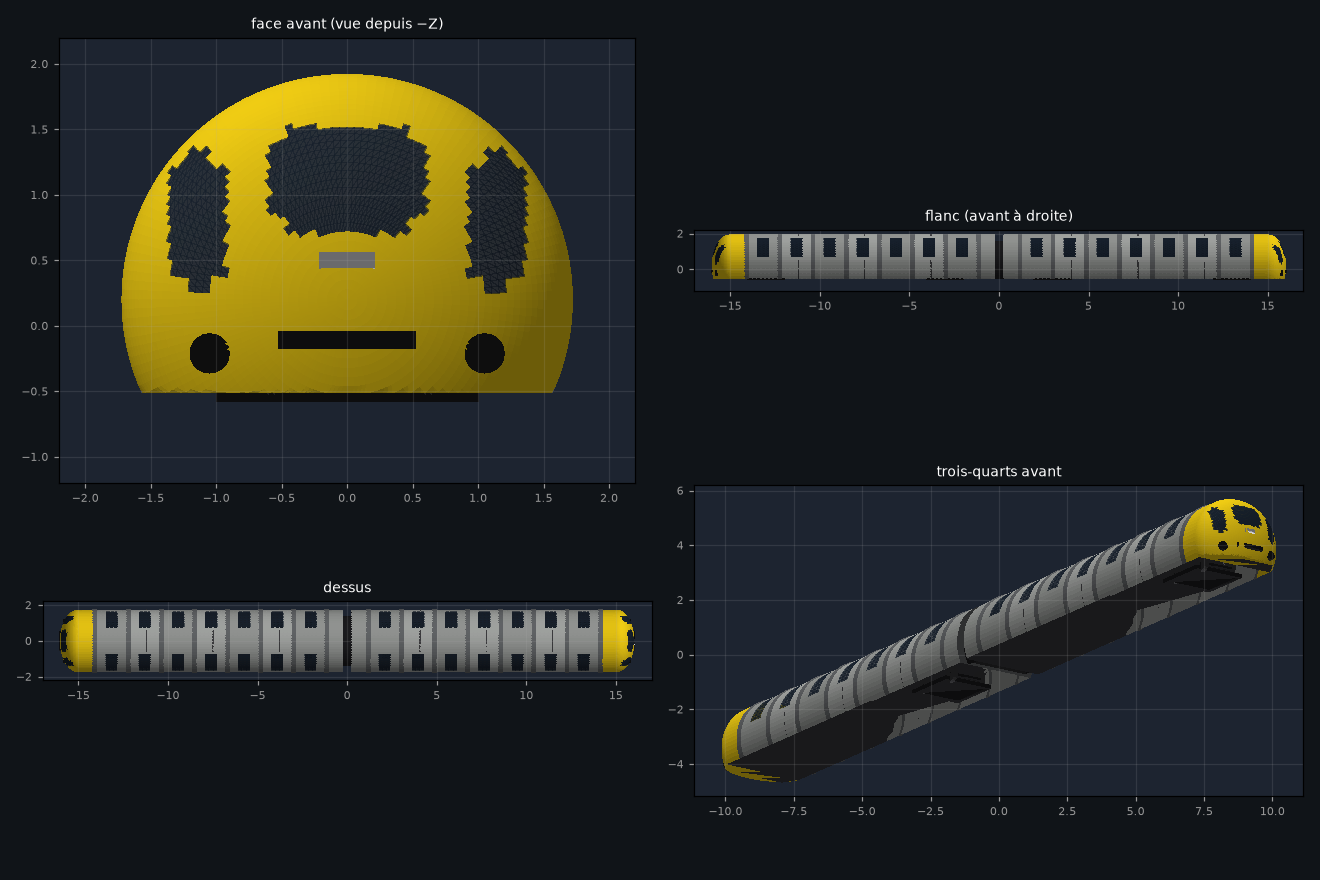
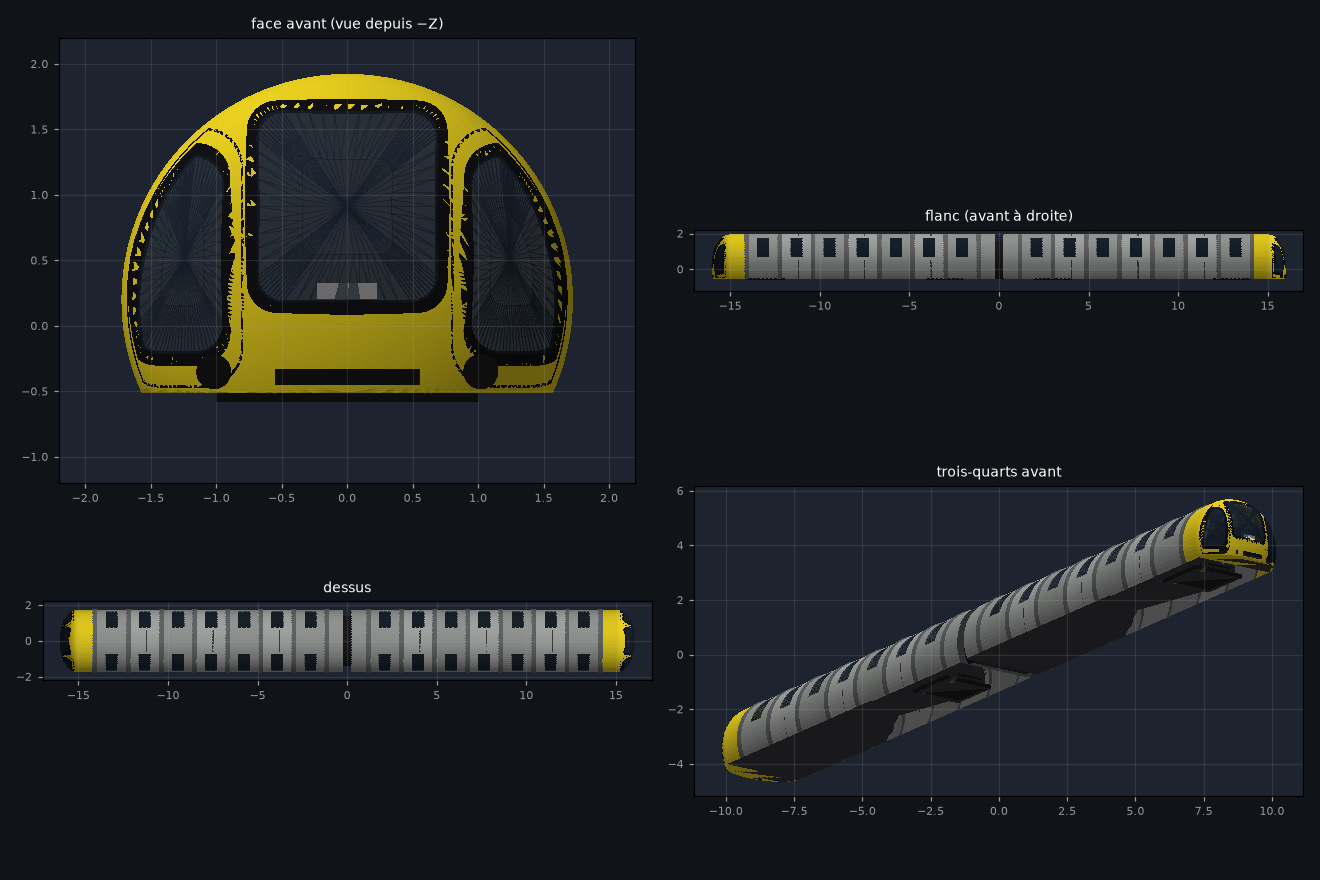
La face avant aux cotes de la photo : pare-brise, baies en D, joints
La face est emblematique et mes proportions etaient fausses. Photo
20260426_095511 (220 px/m) : le pare-brise fait 1,40 x 1,90 m, du haut
de la calotte jusque sous l'axe, plaque « FUNICULAIRE PERCE NEIGE 1 »
dedans en bas ; les baies des portes de secours sont hautes et etroites
CONTRE la lisiere, bord exterieur en D ; « TIGNES », la grille et les
feux ronds sont tout en bas. La face reelle mesure 3,1 m de haut, celle
du jeu 2,43 (voie plus haute dans le tube) : cotes verticales comprimees
de 0,78 depuis l'apex, largeurs conservees.

Les vitres ne sont plus des cellules de la grille polaire (bords en
escalier) : contours echantillonnes finement (rectangles arrondis et D
rabattus sur la lisiere), tole decoupee aux vitres, joints caoutchouc
noirs qui recouvrent la decoupe, vitres lissees a fleur de tole,
liseres des portes. La rame 2, sans interieur, a un fond sombre derriere
ses vitres. Rendu de controle de la face seule ajoute a rendu_rame.py.

diff --git a/tests/rendu_rame.py b/tests/rendu_rame.py
@@ -76,6 +76,14 @@ def main():
     fig.tight_layout()
     fig.savefig(sys.argv[2], dpi=110)
     print("rendu →", sys.argv[2])
+    # face seule, en grand (la face avant est emblématique)
+    if len(sys.argv) > 3:
+        fig2, ax2 = plt.subplots(figsize=(8, 7), facecolor="#101418")
+        vue(ax2, tris, cols, alphas, R_face, light, "face avant", ((-2.0, 2.0), (-1.0, 2.2)))
+        ax2.grid(alpha=0.15)
+        fig2.tight_layout()
+        fig2.savefig(sys.argv[3], dpi=120)
+        print("face →", sys.argv[3])
 
 
 if __name__ == "__main__":

diff --git a/README.md b/README.md
@@ -14,6 +14,22 @@ An accurate PyQt6 simulation of the *Perce-Neige* underground funicular (built 1
 
 ## Quoi de neuf — v1.13.x (audit physique des voyages, 26 septembre 2026)
 
+**v1.13.3** — la face avant, emblématique, refaite aux cotes de la photo
+(`sons/photos/20260426_095511.jpg`, 220 px/m) :
+- **Pare-brise de 1,40 m de large** presque carré, du haut de la calotte
+  jusqu'à l'axe, avec la plaque « FUNICULAIRE PERCE NEIGE 1 » dedans en bas ;
+  **deux baies de portes de secours hautes et étroites contre la lisière**
+  (bord extérieur en D suivant la calotte) ; liserés des portes ;
+  « TIGNES » sous le pare-brise, grille et feux ronds tout en bas.
+- Les vitres ne sont plus des cellules de la grille polaire (bords en
+  escalier) : contours échantillonnés finement (rectangles arrondis /
+  D), tôle **découpée** aux vitres, **joints caoutchouc noirs** qui
+  recouvrent la découpe, vitres lissées posées à fleur de tôle. La rame 2,
+  sans intérieur, a un fond sombre derrière ses vitres.
+- La face réelle mesure 3,1 m de haut (apex → fond plat) ; celle du jeu
+  n'en a que 2,43 (voie plus haute dans le tube) : les cotes verticales sont
+  comprimées de 0,78 depuis l'apex, les largeurs conservées.
+
 **v1.13.2** — des rames réalistes en 3D (PWA et vue F4 du PC), d'après les
 photos du 26 avril 2026 (`sons/photos`) :
 - L'ancienne cabine était un **cylindre jaune Ø 3,40 m centré 15 cm sous
